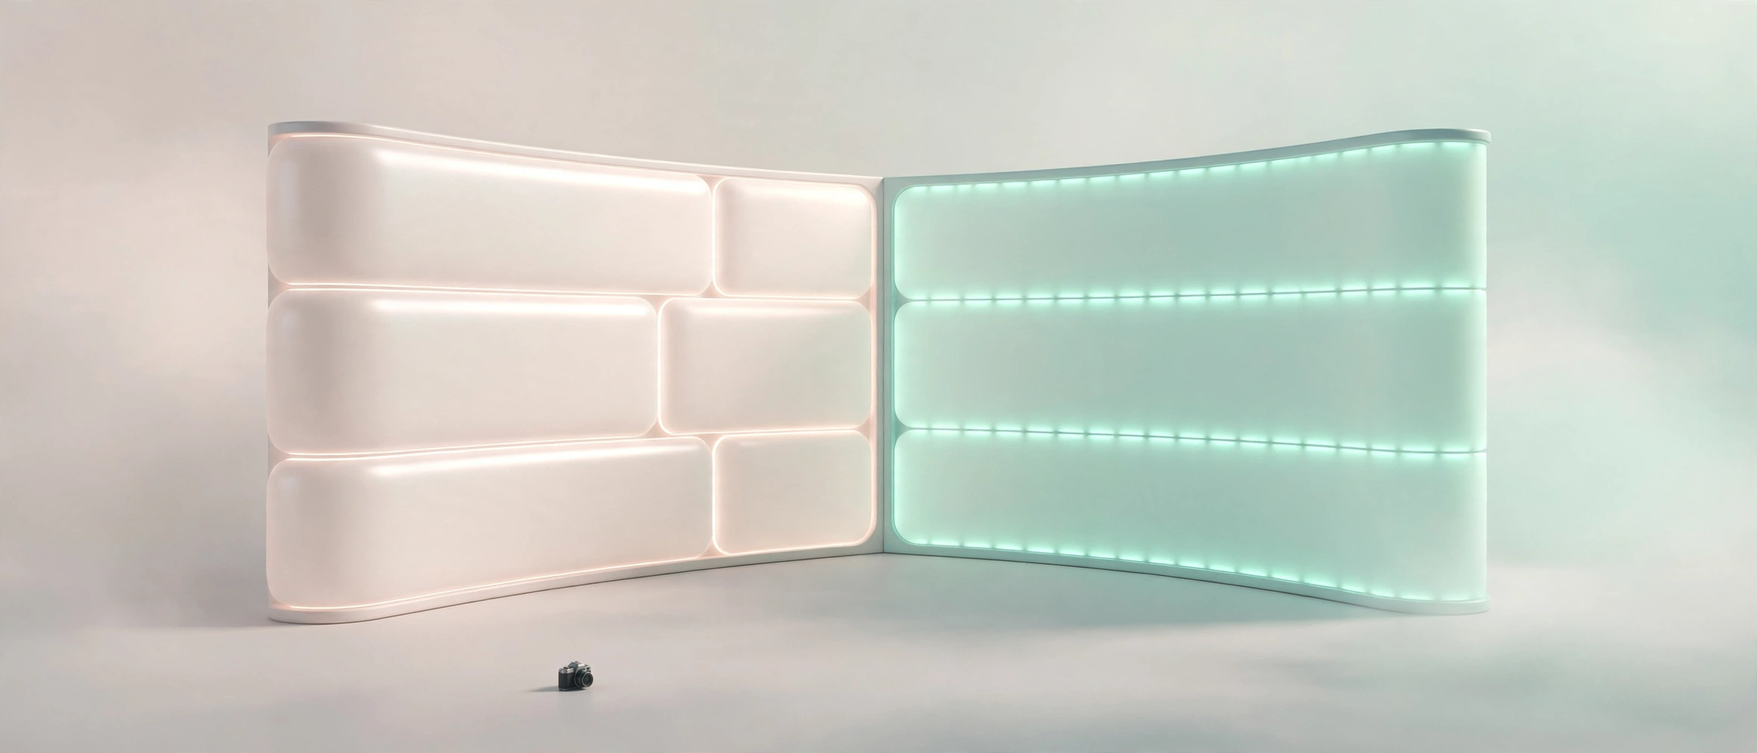
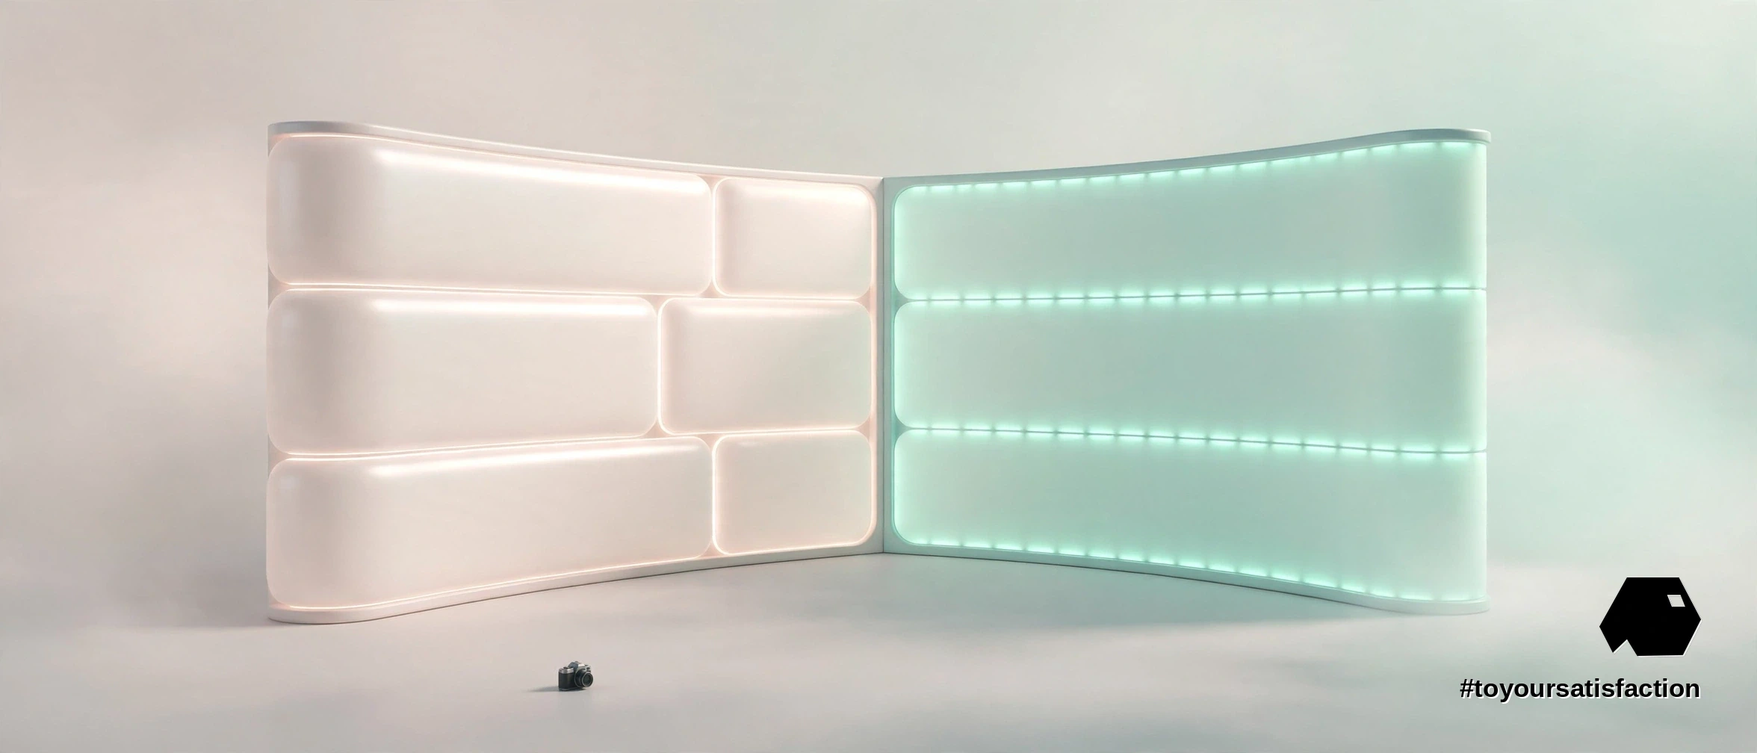
Magazine edition — batch 3

Changed region(s): [[0.807, 0.7688, 0.9932, 0.9534]]

diff --git a/articles/virtual-production-free-tier/index.html b/articles/virtual-production-free-tier/index.html
@@ -5,42 +5,82 @@
 <meta name="viewport" content="width=device-width, initial-scale=1">
 <meta http-equiv="Content-Security-Policy" content="default-src 'self'; script-src 'self' 'unsafe-inline'; style-src 'self' 'unsafe-inline'; img-src 'self' data:; connect-src 'self' https://api.mymemory.translated.net; object-src 'none'; base-uri 'self'">
 <title>The Volume at Zero Dollars: Virtual Production Anyone Can Try — Ovia Inc</title>
-<meta name="description" content="Pixotope 26.3.0 moves the platform to Unreal Engine 5.8.3 — production-ready MegaLights, Lumen Lite, Motion Design — lays the Video Wall foundation on the same system as XR, adds OGraf HTML5 graphics, and opens a free Discovery tier: non-commercial, HD, no licence step, no sales call.">
+<meta name="description" content="Pixotope 26.3.0 moves the platform to Unreal Engine 5.8.3, lays the Video Wall foundation on the same system as XR, adds OGraf HTML5 graphics, and opens a free Discovery tier: non-commercial, HD, no licence step, no sales call.">
 <meta property="og:type" content="article">
 <meta property="og:title" content="The Volume at Zero Dollars: Virtual Production Anyone Can Try">
-<meta property="og:description" content="Pixotope 26.3.0 moves the platform to Unreal Engine 5.8.3 — production-ready MegaLights, Lumen Lite, Motion Design — lays the Video Wall foundation on the same system as XR, adds OGraf HTML5 graphics, and opens a free Discovery tier: non-commercial, HD, no licence step, no sales call.">
+<meta property="og:description" content="Pixotope 26.3.0 moves the platform to Unreal Engine 5.8.3, lays the Video Wall foundation on the same system as XR, adds OGraf HTML5 graphics, and opens a free Discovery tier: non-commercial, HD, no licence step, no sales call.">
 <meta property="og:url" content="https://oviainc.github.io/ai-services/articles/virtual-production-free-tier/">
 <meta property="og:image" content="https://oviainc.github.io/ai-services/articles/virtual-production-free-tier/ovia-inc-virtual-production-free-tier-hero.webp">
 <meta name="twitter:card" content="summary_large_image">
 <style>
-  :root{--bg:#0A0E14;--accent:#2E9BD6;--text:#FFFFFF;--muted:#B9C4CE;}
+  :root{--bg:#0A0E14;--panel:#101823;--text:#FFFFFF;--muted:#B9C4CE;--line:#22303E;--accent:#4FD1A5;}
   *{box-sizing:border-box;margin:0;padding:0;}
-  body{background:var(--bg);color:var(--text);font-family:-apple-system,BlinkMacSystemFont,"Segoe UI",Roboto,Helvetica,Arial,sans-serif;line-height:1.65;}
-  main{max-width:760px;margin:0 auto;padding:32px 20px 48px;}
-  .langbar{display:flex;justify-content:flex-end;align-items:center;gap:10px;margin-bottom:18px;}
-  .langbar label{color:var(--muted);font-size:.85rem;letter-spacing:.08em;text-transform:uppercase;}
-  .langbar select{background:#101823;color:var(--text);border:1px solid #1E2A36;border-radius:8px;padding:6px 10px;font-size:.95rem;max-width:60vw;}
-  .kicker{color:var(--accent);font-size:.85rem;letter-spacing:.18em;text-transform:uppercase;margin-bottom:14px;}
-  h1{font-size:2rem;line-height:1.25;margin-bottom:20px;font-weight:700;}
-  h2{font-size:1.3rem;line-height:1.35;margin:28px 0 12px;font-weight:700;color:var(--accent);}
-  img.hero{width:100%;height:auto;border-radius:10px;display:block;margin-bottom:28px;}
-  p{margin-bottom:16px;color:var(--text);}
-  p.tags{color:var(--accent);font-size:.95rem;}
-  ul.refs{list-style:none;margin-bottom:16px;}
-  ul.refs li{margin-bottom:10px;color:var(--muted);font-size:.95rem;}
+  body{background:var(--bg);color:var(--text);font-family:Georgia,'Times New Roman',Times,serif;line-height:1.6;}
+  a{color:var(--accent);}
+  .sans{font-family:-apple-system,BlinkMacSystemFont,"Segoe UI",Roboto,Helvetica,Arial,sans-serif;}
+  /* masthead zone over the article background image */
+  .mastzone{position:relative;overflow:hidden;border-bottom:1px solid var(--line);}
+  .mast-bg{position:absolute;inset:0;background-size:cover;background-position:center;opacity:.22;}
+  .mast-shade{position:absolute;inset:0;background:linear-gradient(180deg,rgba(10,14,20,.52),rgba(10,14,20,.94));}
+  .mast-inner{position:relative;max-width:1180px;margin:0 auto;padding:24px 22px 42px;}
+  .masthead{display:flex;align-items:center;gap:16px;flex-wrap:wrap;}
+  .masthead a.logo{display:block;line-height:0;}
+  .masthead img.logo{height:46px;width:auto;display:block;}
+  .wordmark{font-family:-apple-system,BlinkMacSystemFont,"Segoe UI",Roboto,Helvetica,Arial,sans-serif;letter-spacing:.34em;font-size:13px;text-transform:uppercase;color:var(--text);}
+  .langbar{display:flex;align-items:center;gap:10px;margin-left:auto;}
+  .langbar label{color:var(--muted);font-size:.8rem;letter-spacing:.08em;text-transform:uppercase;font-family:-apple-system,BlinkMacSystemFont,"Segoe UI",Roboto,Helvetica,Arial,sans-serif;}
+  .langbar select{background:#101823;color:var(--text);border:1px solid var(--line);border-radius:8px;padding:6px 10px;font-size:.95rem;max-width:52vw;}
+  .kicker{color:var(--accent);font-size:.85rem;letter-spacing:.3em;text-transform:uppercase;margin:44px 0 16px;font-family:-apple-system,BlinkMacSystemFont,"Segoe UI",Roboto,Helvetica,Arial,sans-serif;}
+  h1.display{font-family:"Arial Narrow Bold","Franklin Gothic Medium",Impact,Haettenschweiler,"Helvetica Neue Condensed Bold",sans-serif;text-transform:uppercase;font-weight:700;font-size:clamp(2.5rem,6.4vw,4.7rem);line-height:.99;letter-spacing:.004em;max-width:1020px;}
+  .standfirst{font-size:clamp(1.12rem,2.3vw,1.42rem);font-style:italic;color:var(--muted);max-width:780px;line-height:1.5;margin-top:18px;}
+  .byline{font-family:-apple-system,BlinkMacSystemFont,"Segoe UI",Roboto,Helvetica,Arial,sans-serif;font-size:.74rem;letter-spacing:.2em;text-transform:uppercase;color:var(--muted);border-top:1px solid var(--line);margin-top:24px;padding-top:14px;}
+  /* hero */
+  .hero-zone{max-width:1180px;margin:34px auto 0;padding:0 22px;}
+  figure.hero img{width:100%;height:auto;display:block;border-radius:2px;}
+  figcaption{font-family:-apple-system,BlinkMacSystemFont,"Segoe UI",Roboto,Helvetica,Arial,sans-serif;font-size:.78rem;color:var(--muted);padding-top:8px;letter-spacing:.03em;}
+  /* body columns */
+  main{max-width:1180px;margin:0 auto;padding:6px 22px 30px;}
+  .cols{margin-top:30px;font-size:1.16rem;line-height:1.75;}
+  @media (min-width:1020px){.cols{column-count:2;column-gap:54px;}}
+  .cols p{margin:0 0 20px;}
+  .cols p.first::first-letter{font-family:"Arial Narrow Bold","Franklin Gothic Medium",Impact,sans-serif;font-size:5.4rem;line-height:.78;float:left;padding:.55rem .9rem 0 0;color:var(--accent);font-weight:700;}
+  h2.sec{font-family:-apple-system,BlinkMacSystemFont,"Segoe UI",Roboto,Helvetica,Arial,sans-serif;font-size:.88rem;letter-spacing:.26em;text-transform:uppercase;color:var(--accent);margin:36px 0 14px;border-top:2px solid var(--accent);padding-top:14px;break-after:avoid;}
+  h2.sec:first-child{margin-top:0;}
+  blockquote.pull{column-span:all;font-size:clamp(1.55rem,3.6vw,2.35rem);line-height:1.3;font-style:italic;text-align:center;color:var(--accent);margin:42px 0;padding:4px 12px;}
+  figure.body{margin:4px 0 22px;break-inside:avoid;}
+  figure.wide{column-span:all;margin:30px 0 34px;}
+  figure.body img,figure.wide img{width:100%;height:auto;display:block;border-radius:2px;}
+  .keybox{break-inside:avoid;background:var(--panel);border:1px solid var(--line);border-top:3px solid var(--accent);padding:18px 20px 10px;margin:0 0 24px;font-family:-apple-system,BlinkMacSystemFont,"Segoe UI",Roboto,Helvetica,Arial,sans-serif;}
+  .keybox h3{font-size:.78rem;letter-spacing:.24em;text-transform:uppercase;color:var(--accent);margin-bottom:10px;}
+  .keybox li{margin:0 0 9px 18px;font-size:.95rem;line-height:1.5;}
+  /* references + tags + footer */
+  .refs-sec{margin-top:44px;border-top:1px solid var(--line);padding-top:24px;}
+  .refs-sec h2{font-family:-apple-system,BlinkMacSystemFont,"Segoe UI",Roboto,Helvetica,Arial,sans-serif;font-size:.88rem;letter-spacing:.26em;text-transform:uppercase;color:var(--accent);margin-bottom:14px;}
+  ul.refs{list-style:none;}
+  ul.refs li{margin-bottom:10px;color:var(--muted);font-size:.95rem;font-family:-apple-system,BlinkMacSystemFont,"Segoe UI",Roboto,Helvetica,Arial,sans-serif;}
   ul.refs a{color:var(--accent);text-decoration:none;word-break:break-all;}
   ul.refs a:hover{text-decoration:underline;}
-  footer{border-top:1px solid #1E2A36;margin-top:36px;padding-top:20px;font-size:.95rem;color:var(--muted);}
+  p.tags{color:var(--accent);font-size:.95rem;margin-top:26px;font-family:-apple-system,BlinkMacSystemFont,"Segoe UI",Roboto,Helvetica,Arial,sans-serif;}
+  footer{border-top:1px solid var(--line);margin-top:38px;padding:22px 0 10px;font-size:.95rem;color:var(--muted);font-family:-apple-system,BlinkMacSystemFont,"Segoe UI",Roboto,Helvetica,Arial,sans-serif;}
+  footer .frow{display:flex;align-items:center;gap:14px;flex-wrap:wrap;}
+  footer img.flogo{height:30px;width:auto;display:block;}
   footer a{color:var(--accent);text-decoration:none;}
   footer a:hover{text-decoration:underline;}
-  @media (max-width:600px){h1{font-size:1.55rem;}main{padding:22px 16px 36px;}}
+  footer .ftag{color:var(--text);letter-spacing:.06em;}
+  @media (max-width:640px){.mast-inner{padding:18px 16px 30px;}main,.hero-zone{padding-left:16px;padding-right:16px;}h1.display{font-size:2.35rem;}.cols{font-size:1.08rem;}}
 </style>
 </head>
 <body>
-<main>
-<div class="langbar">
-          <label for="langPick" data-tr>Language</label>
-          <select id="langPick" aria-label="Choose your language">
+<header class="mastzone">
+  <div class="mast-bg" style="background-image:url('ovia-inc-virtual-production-free-tier-background.webp')"></div>
+  <div class="mast-shade"></div>
+  <div class="mast-inner">
+    <div class="masthead">
+      <a class="logo" href="../../" aria-label="Ovia Inc — home"><img class="logo" src="../../assets/ovia-inc-logo-white.webp" alt="Ovia Inc — logo"></a>
+      <span class="wordmark">Ovia Inc — Magazine</span>
+      <div class="langbar">
+        <label for="langPick" data-tr>Language</label>
+        <select id="langPick" aria-label="Choose your language">
             <option value="en">English</option>
             <option value="fr">Français</option>
             <option value="es">Español</option>
@@ -118,28 +158,74 @@
             <option value="lo">ລາວ</option>
             <option value="mn">Монгол</option>
           </select>
-        </div>
-  <p class="kicker" data-tr>Ovia Inc — Articles</p>
-  <h1 data-tr>The Volume at Zero Dollars: Virtual Production Anyone Can Try</h1>
-  <img class="hero" src="ovia-inc-virtual-production-free-tier-hero.webp" alt="Ovia Inc — A soft 3D render of a miniature LED volume corner in pearl white and mint light, with a tiny camera shape on a smooth studio floor">
-  <h2 data-tr>The release</h2>
-  <p data-tr>Pixotope 26.3.0 consolidates the company's virtual production platform onto Unreal Engine 5.8.3 and reorganises the product into three editions — Discovery, Core and Max — with existing subscribers carried across at current pricing. The release also brings the Zone tracking system onto Windows inside the main platform, renders HTML graphics through the open OGraf standard, and lays the foundation for a native Video Wall product. Underneath the packaging sits a meaningful engine step: Epic's 5.8 line, in a broadcast-hardened build, with the lighting and motion-design gains that version carries.</p>
-  <h2 data-tr>What 5.8.3 brings</h2>
-  <p data-tr>Three engine features headline the move. MegaLights arrives production-ready, letting scenes hold hundreds of dynamic, shadow-casting lights while performance stays steady — the difference between lighting a virtual set the way a gaffer would light a physical one and rationing every source. Lumen Lite trims the cost of global illumination for broadcast realities. And the Motion Design improvements continue the merger of broadcast graphics and real-time 3D into one toolset. For stages, the practical translation is headroom: more lights, richer sets, steadier frame rates on the wall.</p>
-  <h2 data-tr>Discovery: the door opens</h2>
-  <p data-tr>The strategic headline sits at the bottom of the price list. Pixotope Discovery is a free tier for trying the full platform: non-commercial, in HD, downloadable after a simple sign-up — in the company's words, no licence assignment, no sales call, no cost. Virtual production has carried an entry problem for years: the craft could only be learned on expensive stages, inside working productions, by invitation. A zero-dollar tier changes who gets to practise. Students, independent creators, small studios and curious engineers can build the skills before a budget exists — the same on-ramp pattern that rebuilt every neighbouring craft, from editing to game development.</p>
-  <h2 data-tr>One system, wall to volume</h2>
-  <p data-tr>Two quieter items point at the platform's direction. The Video Wall foundation is built on the same system as the XR stage work, controlled from the LED Mapping panel in Director, with full product integration planned for the next release — one control surface spanning video walls and volumes instead of parallel toolchains. And OGraf support renders HTML5 graphics templates through VideoIO with control from Live Controller, even rendering ordinary web pages as sources. Broadcast graphics, long a separate priesthood, keep dissolving into the same real-time stack.</p>
-  <h2 data-tr>What to watch</h2>
-  <p data-tr>The MELS roots on record at Ovia — a Graduate Technical Intern year inside a working studio — come from an era when access to the stage was the scarcest resource in the craft, and the Virtual Production skill set has only grown more valuable as stages multiplied. A free tier tests whether virtual production follows the familiar curve: access first, then a generation of practitioners, then demand for stages that no longer need to teach from zero. Watch Discovery's limits as real projects press against them, the Video Wall productisation in the next release, and whether rival platforms answer with open doors of their own.</p>
-  <p data-tr>The tier structure itself teaches a lesson about how platforms now compete. Discovery removes the cost of curiosity; Core carries working broadcast and streaming productions; Max holds the large-scale volumes and national broadcasters. Each step up becomes a production decision rather than a learning decision, which is exactly the inversion the craft needed: learn free, pay when the work pays. For training programmes and community studios in Québec and beyond, a downloadable professional toolchain — the same engine build, the same control surface — turns virtual production from an invited speciality into an open practice.</p>
-  <h2 data-tr>References</h2>
-  <ul class="refs">
-    <li><span data-tr>Pixotope — “Pixotope 26.3.0: Discovery, Zone to Windows, Unreal 5.8.3, OGraf HTML5 playout and control, Video Wall Features and more”:</span> <a href="https://www.pixotope.com/blog/pixotope-26.3.0">https://www.pixotope.com/blog/pixotope-26.3.0</a></li>
-  </ul>
+      </div>
+    </div>
+    <p class="kicker" data-tr>Ovia Inc — Virtual production · Broadcast technology</p>
+    <h1 class="display" data-tr>The Volume at Zero Dollars: Virtual Production Anyone Can Try</h1>
+    <p class="standfirst" data-tr>Pixotope 26.3.0 pairs a serious engine step — Unreal Engine 5.8.3, production-ready MegaLights — with a free Discovery tier that turns virtual production into a craft anyone can start learning.</p>
+    <p class="byline" data-tr>Ovia Inc · Studio and Lab · 6 min read</p>
+  </div>
+</header>
+<div class="hero-zone">
+  <figure class="hero">
+    <img src="ovia-inc-virtual-production-free-tier-hero.webp" alt="Ovia Inc — A soft 3D render of a miniature LED volume corner in pearl white and mint light, with a tiny camera shape on a smooth studio floor">
+    <figcaption data-tr>The volume at desk scale: pearl white, mint light, open to anyone willing to learn. Image: Ovia Inc</figcaption>
+  </figure>
+</div>
+<main>
+  <div class="cols">
+    <p class="first" data-tr>A professional virtual production platform now costs nothing to try. Pixotope 26.3.0 opens a free Discovery tier — non-commercial, in HD, with no licence step and no sales call — and pairs that open door with a serious engine step underneath: the whole platform consolidated onto Unreal Engine 5.8.3. The pairing is the story. Access decides who gets to learn the craft; the engine decides how far the craft can go once the learning starts.</p>
+    <p data-tr>Virtual production has always had two prices: the price of the stage, and the price of admission to the knowledge. Stages stay expensive — LED walls, tracking systems and render capacity are physical things. Admission, though, was a software decision all along, and software decisions can change overnight. Discovery changes the second price to zero, and that may matter more than any single feature in the release.</p>
+    <aside class="keybox">
+      <h3 data-tr>Key points</h3>
+      <ul>
+        <li data-tr>Pixotope 26.3.0 consolidates the platform onto Unreal Engine 5.8.3.</li>
+        <li data-tr>MegaLights arrives production-ready; Lumen Lite trims the cost of global illumination.</li>
+        <li data-tr>Discovery is a free tier: non-commercial, HD, no licence step, no sales call.</li>
+        <li data-tr>Video Wall and XR share one system; OGraf renders HTML5 graphics in the same stack.</li>
+      </ul>
+    </aside>
+    <h2 class="sec" data-tr>01 · The release</h2>
+    <p data-tr>Pixotope 26.3.0 consolidates the company's virtual production platform onto Unreal Engine 5.8.3 and reorganises the product into three editions — Discovery, Core and Max — with existing subscribers carried across at current pricing. The release also brings the Zone tracking system onto Windows inside the main platform, renders HTML graphics through the open OGraf standard, and lays the foundation for a native Video Wall product. Underneath the packaging sits a meaningful engine step: Epic's 5.8 line, in a broadcast-hardened build, with the lighting and motion-design gains that version carries.</p>
+    <p data-tr>Release notes usually reward the reader who watches what moved where. Here, the direction is consolidation: one engine build, one platform, editions separated by scale rather than by entirely different toolsets. Subscribers carried across at current pricing signals that the reorganisation is structural, not a disguised price rise — the tiers redraw who the product is for, from first-time learners to national broadcasters, on the same foundation.</p>
+    <figure class="body">
+      <img src="ovia-inc-virtual-production-free-tier-body-1.webp" alt="Ovia Inc — A miniature curved LED volume in pearl white with mint light glowing from the panels and a tiny camera on the floor, soft 3D render">
+      <figcaption data-tr>The volume, miniaturised: the stage as a learnable object, small enough to sit on a desk. Image: Ovia Inc</figcaption>
+    </figure>
+    <h2 class="sec" data-tr>02 · What 5.8.3 brings</h2>
+    <p data-tr>Three engine features headline the move. MegaLights arrives production-ready, letting scenes hold hundreds of dynamic, shadow-casting lights while performance stays steady — the difference between lighting a virtual set the way a gaffer would light a physical one and rationing every source. Lumen Lite trims the cost of global illumination for broadcast realities. And the Motion Design improvements continue the merger of broadcast graphics and real-time 3D into one toolset. For stages, the practical translation is headroom: more lights, richer sets, steadier frame rates on the wall.</p>
+    <p data-tr>Headroom is an unglamorous word for a creative condition. Lighting is where virtual sets most often confess their artificiality: too few sources, shadows rationed, a flatness no art direction can hide. Hundreds of dynamic lights change the conversation between a lighting director and a virtual set from negotiation to intent. Lumen Lite pulls from the other side, cutting the cost of the global illumination that makes light feel like light.</p>
+    <blockquote class="pull" data-tr>For stages, the practical translation is headroom: more lights, richer sets, steadier frame rates on the wall.</blockquote>
+    <h2 class="sec" data-tr>03 · Discovery: the door opens</h2>
+    <p data-tr>The strategic headline sits at the bottom of the price list. Pixotope Discovery is a free tier for trying the full platform: non-commercial, in HD, downloadable after a simple sign-up — in the company's words, no licence assignment, no sales call, no cost. Virtual production has carried an entry problem for years: the craft could only be learned on expensive stages, inside working productions, by invitation. A zero-dollar tier changes who gets to practise. Students, independent creators, small studios and curious engineers can build the skills before a budget exists — the same on-ramp pattern that rebuilt every neighbouring craft, from editing to game development.</p>
+    <p data-tr>The on-ramp pattern deserves respect because the pattern has a track record. Editing opened when the tools reached laptops; game development opened when engines went free at the entry tier; music production opened the same way. Each time, the craft did not cheapen — the practitioner base widened, and the top end rose with the talent arriving from below. A downloadable professional toolchain applies that proven mechanism to the volume.</p>
+    <figure class="wide">
+      <img src="ovia-inc-virtual-production-free-tier-body-2.webp" alt="Ovia Inc — A sweeping video wall of pearl-white panels with hundreds of tiny mint light points, soft 3D render">
+      <figcaption data-tr>Wall and volume, one family: hundreds of small lights, one control surface. Image: Ovia Inc</figcaption>
+    </figure>
+    <h2 class="sec" data-tr>04 · One system, wall to volume</h2>
+    <p data-tr>Two quieter items point at the platform's direction. The Video Wall foundation is built on the same system as the XR stage work, controlled from the LED Mapping panel in Director, with full product integration planned for the next release — one control surface spanning video walls and volumes instead of parallel toolchains. And OGraf support renders HTML5 graphics templates through VideoIO with control from Live Controller, even rendering ordinary web pages as sources. Broadcast graphics, long a separate priesthood, keep dissolving into the same real-time stack.</p>
+    <p data-tr>Convergence carries an operations benefit that rarely makes the release notes: fewer toolchains means fewer specialists translating between them, fewer failure modes at the seams, and one set of habits for the crew. A team that learns the volume has, increasingly, also learned the wall — and a graphics operator working in HTML is working in the most widely taught interface language on earth.</p>
+    <h2 class="sec" data-tr>05 · What to watch</h2>
+    <p data-tr>The MELS roots on record at Ovia — a Graduate Technical Intern year inside a working studio — come from an era when access to the stage was the scarcest resource in the craft, and the Virtual Production skill set has only grown more valuable as stages multiplied. A free tier tests whether virtual production follows the familiar curve: access first, then a generation of practitioners, then demand for stages that no longer need to teach from zero. Watch Discovery's limits as real projects press against them, the Video Wall productisation in the next release, and whether rival platforms answer with open doors of their own.</p>
+    <p data-tr>The tier structure itself teaches a lesson about how platforms now compete. Discovery removes the cost of curiosity; Core carries working broadcast and streaming productions; Max holds the large-scale volumes and national broadcasters. Each step up becomes a production decision rather than a learning decision, which is exactly the inversion the craft needed: learn free, pay when the work pays. For training programmes and community studios in Québec and beyond, a downloadable professional toolchain — the same engine build, the same control surface — turns virtual production from an invited speciality into an open practice.</p>
+    <p data-tr>The honest caveat is built into the tier itself: Discovery is non-commercial and HD, so the door opens onto practice, not onto paid production — which is the right shape for an on-ramp. Skills built in a free tier still need a stage, a crew and a client before skills become a living. What changed is the order of operations. The learning no longer waits for the budget, and crafts change fastest when learning goes first.</p>
+
+  </div>
+  <div class="refs-sec">
+    <h2 data-tr>References</h2>
+    <ul class="refs">
+      <li><span data-tr>Pixotope — “Pixotope 26.3.0: Discovery, Zone to Windows, Unreal 5.8.3, OGraf HTML5 playout and control, Video Wall Features and more”:</span> <a href="https://www.pixotope.com/blog/pixotope-26.3.0">https://www.pixotope.com/blog/pixotope-26.3.0</a></li>
+
+    </ul>
+  </div>
   <p class="tags">#VirtualProduction #UnrealEngine #Broadcast #toyoursatisfaction</p>
   <footer>
-    <p><a href="../../">Ovia Inc</a> · Source on GitHub: <a href="https://github.com/Oviainc/ai-services">github.com/Oviainc/ai-services</a></p>
+    <div class="frow">
+      <a href="../../" aria-label="Ovia Inc — home"><img class="flogo" src="../../assets/ovia-inc-logo-white.webp" alt="Ovia Inc — logo"></a>
+      <span><a href="../../">Ovia Inc</a> · <span data-tr>Source on GitHub:</span> <a href="https://github.com/Oviainc/ai-services">github.com/Oviainc/ai-services</a></span>
+      <span class="ftag">#toyoursatisfaction</span>
+    </div>
   </footer>
 </main>
 <script>
